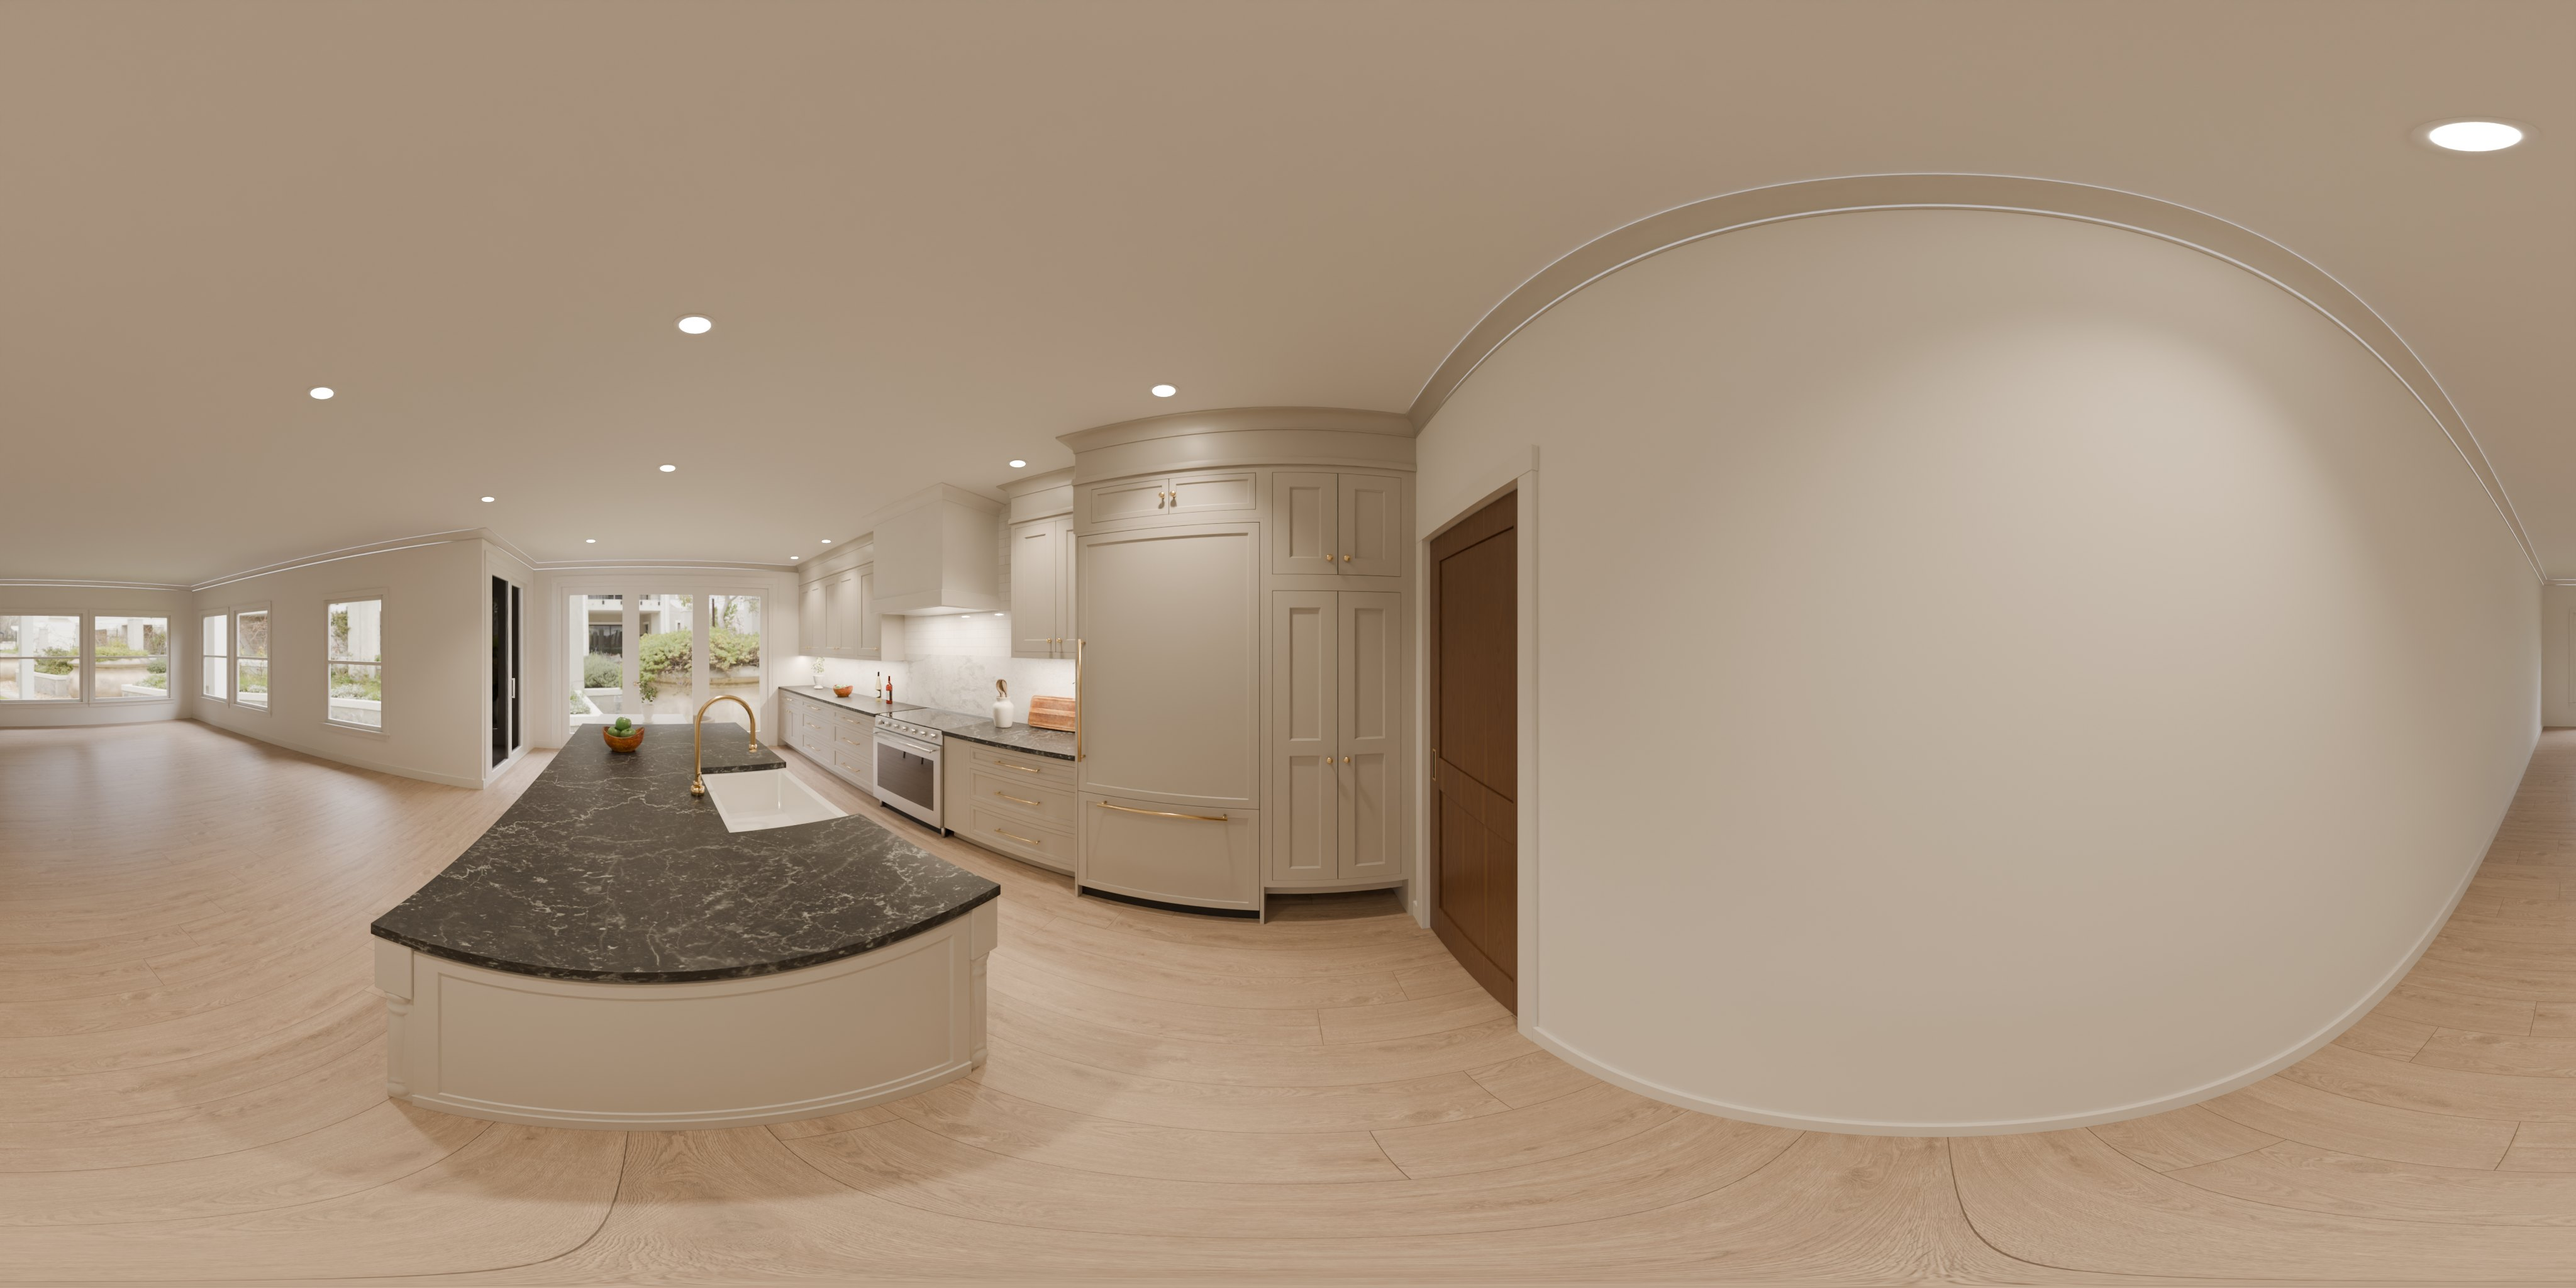
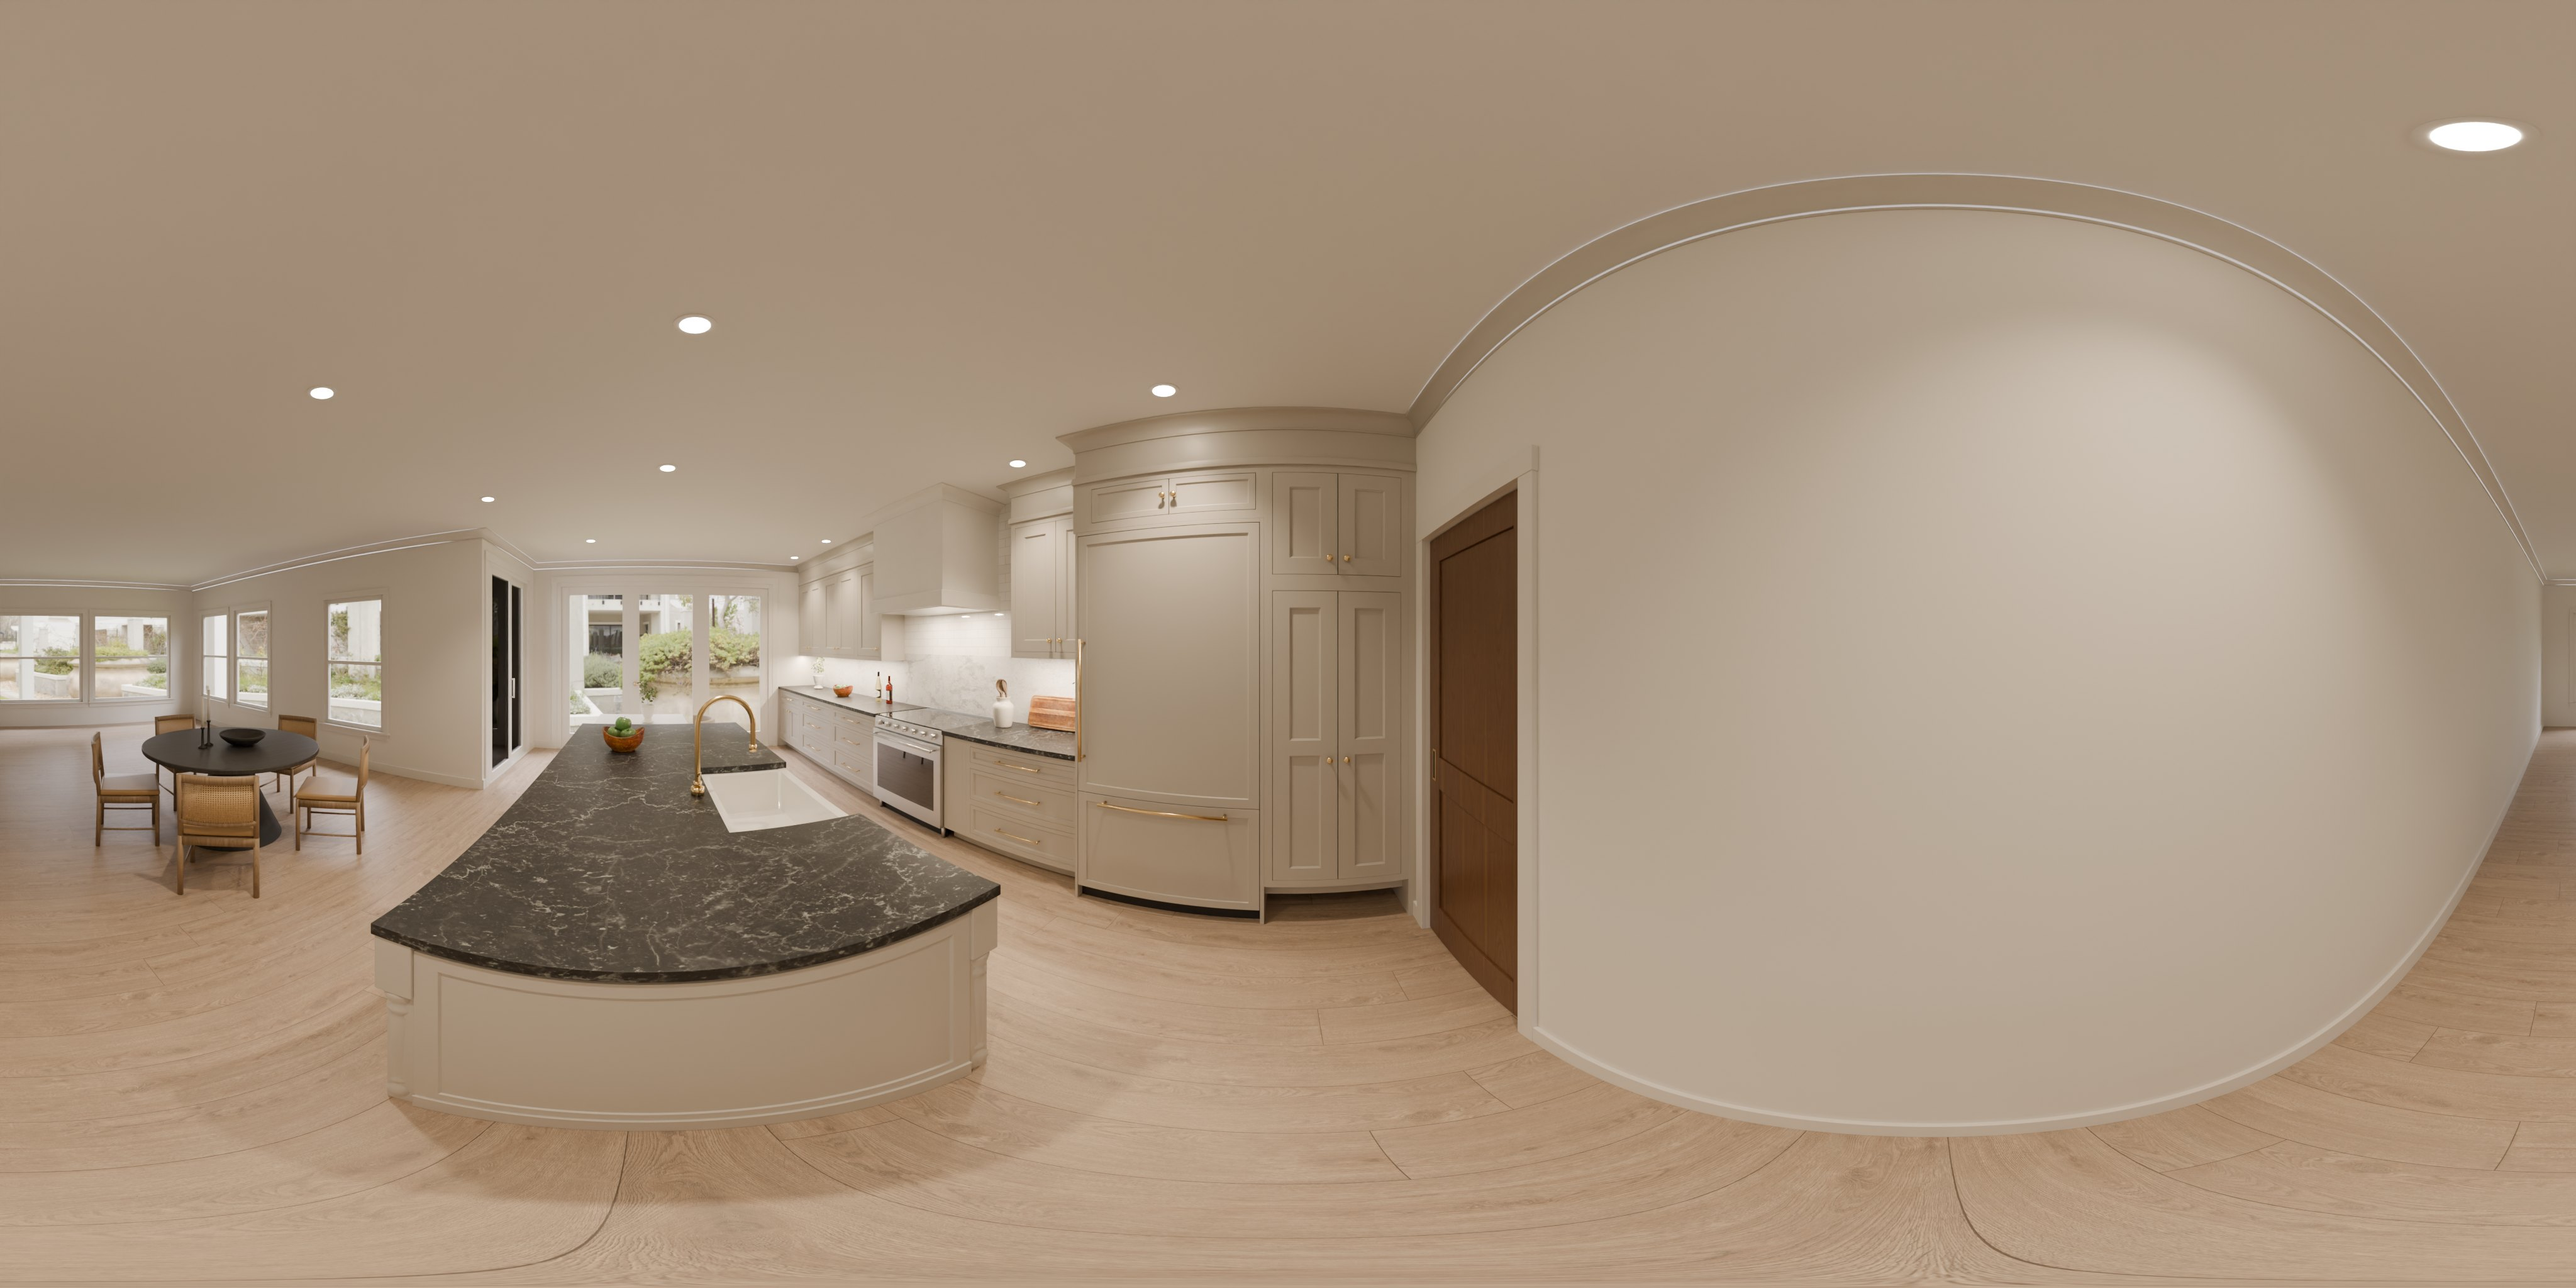
Add round dining table in front of the island
Re-rendered all four panoramas with the new dining set; living-room spot
moved behind the table; table shown on the floor plan; walk-marker labels
stay above the title card.

Changed region(s): [[0.0312, 0.5312, 0.1562, 0.7188]]

diff --git a/index.html b/index.html
@@ -51,7 +51,8 @@ body { background: var(--bg); color: var(--ink); font-family: var(--font-ui); ov
   backdrop-filter: blur(10px); -webkit-backdrop-filter: blur(10px);
   border: 1px solid var(--line); border-radius: 12px; box-shadow: 0 6px 24px rgba(0, 0, 0, 0.12);
 }
-.title-card { top: calc(16px + env(safe-area-inset-top, 0px)); left: 16px; padding: 12px 16px 13px; max-width: calc(100% - 32px); }
+.title-card { top: calc(16px + env(safe-area-inset-top, 0px)); left: 16px; padding: 12px 16px 13px; max-width: calc(100% - 32px);
+  z-index: 0; pointer-events: none; }  /* walk markers and their labels stay on top of it */
 .title-card h1 { margin: 0; font-family: var(--font-display); font-weight: 400; font-size: 1.55rem; line-height: 1.1; text-wrap: balance; }
 .title-card .where { margin-top: 4px; display: flex; gap: 8px; align-items: baseline; flex-wrap: wrap; font-size: 0.86rem; color: var(--muted); }
 .title-card .where strong { color: var(--ink); font-weight: 600; }
@@ -119,7 +120,7 @@ body { background: var(--bg); color: var(--ink); font-family: var(--font-ui); ov
 
   <div class="card plan-card">
     <p class="label">Floor plan · you are here</p>
-    <svg id="plan" viewBox="-3.6 -0.95 7.2 7.25" aria-hidden="true"></svg>
+    <svg id="plan" viewBox="-3.6 -0.95 7.2 8.25" aria-hidden="true"></svg>
     <ul class="spots" id="spot-list"></ul>
   </div>
 </div>
@@ -130,7 +131,7 @@ body { background: var(--bg); color: var(--ink); font-family: var(--font-ui); ov
 // Each panorama is centered on +y, so a direction's yaw is its clockwise angle from +y.
 const EYE = 1.55;
 const SPOTS = [
-  { id: "living", name: "Living room", x: 0.60, y: -5.20, start: 0 },
+  { id: "living", name: "Living room", x: 0.60, y: -6.90, start: 0 },
   { id: "breakfast", name: "Breakfast table", x: -2.55, y: -1.15, start: 45 },
   { id: "range_aisle", name: "At the range", x: -0.05, y: -0.68, start: 0 },
   { id: "fridge_end", name: "Fridge & pantry", x: 2.60, y: -2.00, start: -45 },
@@ -181,22 +182,23 @@ function el(tag, attrs, parent = plan) {
 const rect = (x0, y0, x1, y1, cls) => el("rect", { x: x0, y: -y1, width: x1 - x0, height: y1 - y0, class: cls });
 const line = (pts, cls) => el("polyline", { points: pts.map(p => P(...p)).join(" "), class: cls });
 
-el("polygon", { class: "plan-floor", points: [[-3.213, 0.61], [3.213, 0.61], [3.213, -6.3], [-1.257, -6.3], [-1.257, -3.607], [-3.213, -3.607]].map(p => P(...p)).join(" ") });
+el("polygon", { class: "plan-floor", points: [[-3.213, 0.61], [3.213, 0.61], [3.213, -7.3], [-1.257, -7.3], [-1.257, -3.607], [-3.213, -3.607]].map(p => P(...p)).join(" ") });
 rect(-3.213, 0.0, 3.175, 0.61, "plan-cab");          // perimeter cabinets
 rect(1.515, -0.102, 3.213, 0.61, "plan-cab");        // fridge + pantry wall
 rect(-0.543, 0.0, 0.372, 0.61, "plan-range");        // range
 rect(-0.605, -2.485, 1.985, -1.27, "plan-cab");      // island
 rect(-1.955, -2.485, -0.6, -1.571, "plan-table");    // dining extension
+el("circle", { cx: 0.90, cy: 4.70, r: 0.686, class: "plan-table" }); // round dining table
 // walls, with openings for the glass doors and the pocket door
 line([[-3.213, -3.25], [-3.213, -3.607], [-2.92, -3.607]], "plan-wall");
-line([[-1.40, -3.607], [-1.257, -3.607], [-1.257, -6.3]], "plan-wall");
+line([[-1.40, -3.607], [-1.257, -3.607], [-1.257, -7.3]], "plan-wall");
 line([[-3.213, -0.12], [-3.213, 0.61], [3.213, 0.61], [3.213, -0.24]], "plan-wall");
-line([[3.213, -1.05], [3.213, -6.3]], "plan-wall");
+line([[3.213, -1.05], [3.213, -7.3]], "plan-wall");
 line([[-3.213, -3.25], [-3.213, -0.12]], "plan-glass");   // 3-panel French doors
 line([[-2.92, -3.607], [-1.40, -3.607]], "plan-glass");   // porch slider
 line([[3.213, -1.05], [3.213, -0.24]], "plan-door");      // pocket door
 el("text", { x: 0.65, y: 1.95, class: "plan-text", "text-anchor": "middle" }).textContent = "ISLAND";
-el("text", { x: 0.95, y: 5.9, class: "plan-text", "text-anchor": "middle" }).textContent = "LIVING / DINING";
+el("text", { x: 0.95, y: 7.05, class: "plan-text", "text-anchor": "middle" }).textContent = "LIVING / DINING";
 
 const cone = el("path", { class: "plan-cone", d: "" });
 const dots = {};
